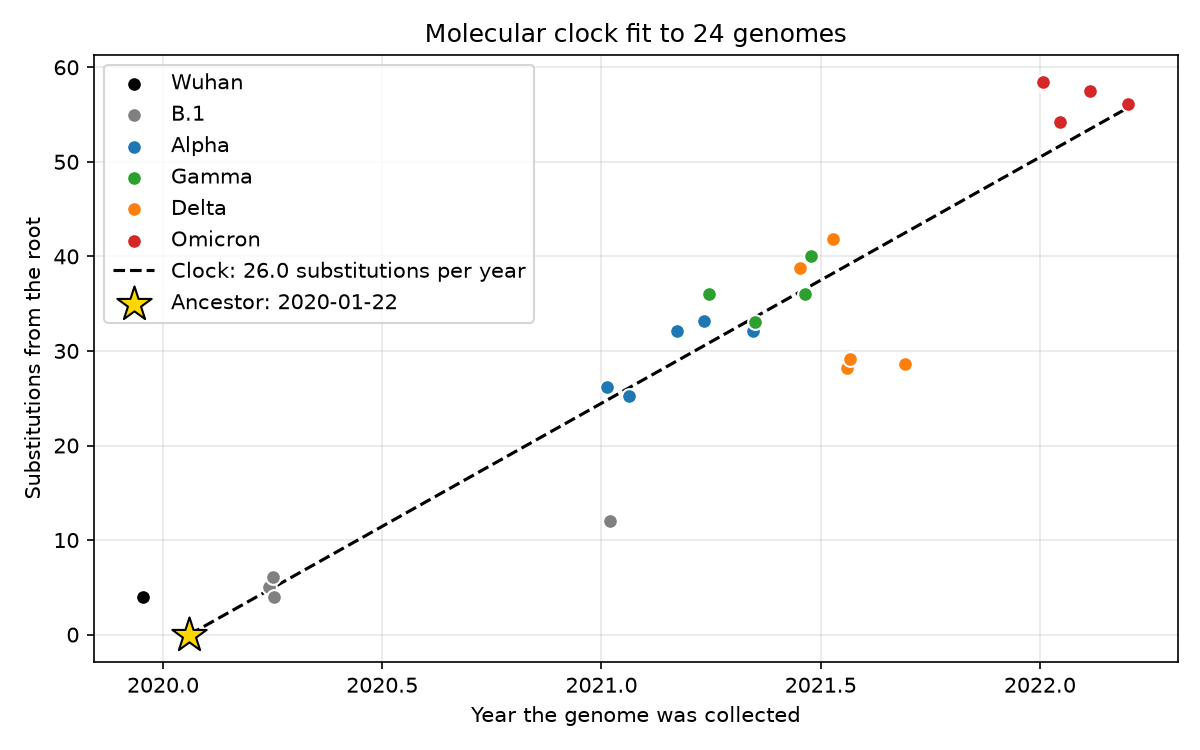
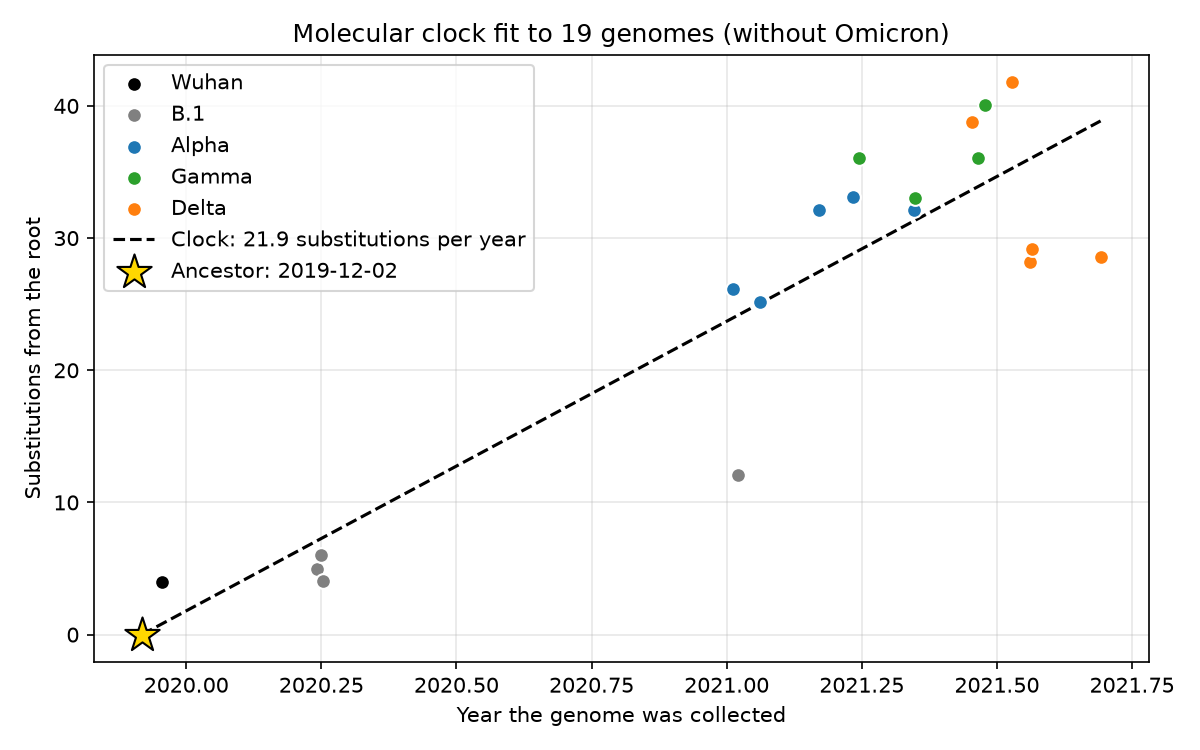
Leaving Omicron out of the clock

diff --git a/scripts/clock.py b/scripts/clock.py
@@ -218,7 +218,7 @@ if __name__ == "__main__":
     genome_length = 29903
     
     # Lineages to leave out of the clock (e.g., ["Omicron"])
-    excluded_lineages = []
+    excluded_lineages = ["Omicron"]
 
     # ----------------------------------------------------------------------- #
     # The analysis
